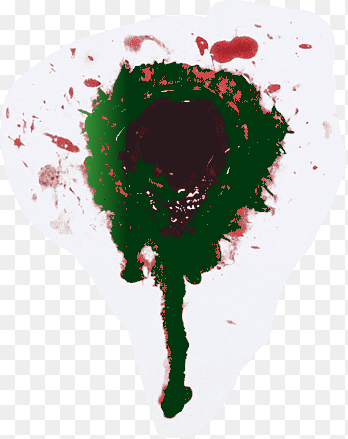
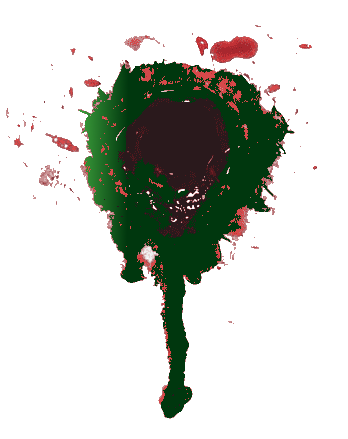
Add health to enemies and gun fire rate/ damage and fixed image transparency

diff --git a/MyGame/MyGame.cpp b/MyGame/MyGame.cpp
@@ -14,11 +14,11 @@ class MyGameApplication : public Quad::QuadApplication
 						   { MyKeysHandler(event); });
 		currentLevel = std::make_unique<GoblinLevel>();
 
-		// Initialize guns
-		guns.push_back(std::make_unique<Gun>("Assets/gun1hold.png", "Assets/gun1fire.png"));
-		guns.push_back(std::make_unique<Gun>("Assets/gun2hold.png", "Assets/gun2fire.png"));
-		guns.push_back(std::make_unique<Gun>("Assets/gun3hold.png", "Assets/gun3fire.png"));
-		guns.push_back(std::make_unique<Gun>("Assets/gun4hold.png", "Assets/gun4fire.png"));
+		// Initialize guns with different fire rates and damage
+		guns.push_back(std::make_unique<Gun>("Assets/gun1hold.png", "Assets/gun1fire.png", 0.6f, 1)); // Slow, 1 damage PISTOL
+		guns.push_back(std::make_unique<Gun>("Assets/gun2hold.png", "Assets/gun2fire.png", 0.2f, 1)); // Fast, 1 damage
+		guns.push_back(std::make_unique<Gun>("Assets/gun3hold.png", "Assets/gun3fire.png", 0.6f, 3)); // Slow, 3 damage AWP
+		guns.push_back(std::make_unique<Gun>("Assets/gun4hold.png", "Assets/gun4fire.png", 0.1f, 1)); // Fast, 1 damage UZI
 		currentGunIndex = 0;
 	}
 
@@ -36,13 +36,14 @@ class MyGameApplication : public Quad::QuadApplication
 		{
 			currentLevel->Update();
 			currentLevel->Draw();
+			guns[currentGunIndex]->Update();
 			guns[currentGunIndex]->Draw();
 
 			if (cursor.IsClicking())
 			{
 				if (GoblinLevel *goblinLevel = dynamic_cast<GoblinLevel *>(currentLevel.get()))
 				{
-					goblinLevel->HandleClick(cursor);
+					goblinLevel->HandleClick(cursor, guns[currentGunIndex]->CanFire(), guns[currentGunIndex]->GetDamage());
 				}
 				guns[currentGunIndex]->TriggerFire();
 			}

diff --git a/MyGame/Gun.cpp b/MyGame/Gun.cpp
@@ -1,9 +1,34 @@
 #include "Gun.h"
 
-Gun::Gun(const std::string &holdImagePath, const std::string &fireImagePath)
+Gun::Gun(const std::string &holdImagePath, const std::string &fireImagePath, float fireRate, int damage)
     : holdSprite(holdImagePath, 400, 0),
-      fireSprite(fireImagePath, 400, 0)
+      fireSprite(fireImagePath, 400, 0),
+      fireRate(fireRate),
+      damage(damage)
 {
+}
+
+void Gun::Update()
+{
+    if (!canFire)
+    {
+        cooldownTimer += 1.0f / 60.0f;
+        if (cooldownTimer >= fireRate)
+        {
+            canFire = true;
+            cooldownTimer = 0.0f;
+        }
+    }
+
+    if (isFiring)
+    {
+        fireDisplayTimer += 1.0f / 60.0f;
+        if (fireDisplayTimer >= FIRE_DISPLAY_TIME)
+        {
+            isFiring = false;
+            fireDisplayTimer = 0.0f;
+        }
+    }
 }
 
 void Gun::Draw()
@@ -20,10 +45,16 @@ void Gun::Draw()
 
 void Gun::TriggerFire()
 {
-    isFiring = true;
+    if (canFire)
+    {
+        isFiring = true;
+        canFire = false;
+        cooldownTimer = 0.0f;
+        fireDisplayTimer = 0.0f;
+    }
 }
 
 void Gun::SetFiring(bool firing)
 {
-    isFiring = firing;
+    // Removed as we're controlling firing state with timers
 }

diff --git a/MyGame/Gun.h b/MyGame/Gun.h
@@ -4,13 +4,22 @@
 class Gun
 {
 public:
-    Gun(const std::string &holdImagePath, const std::string &fireImagePath);
+    Gun(const std::string &holdImagePath, const std::string &fireImagePath, float fireRate, int damage);
     void Draw();
     void TriggerFire();
     void SetFiring(bool firing);
+    void Update();
+    bool CanFire() const { return canFire; }
+    int GetDamage() const { return damage; }
 
 private:
     Quad::Unit holdSprite;
     Quad::Unit fireSprite;
     bool isFiring{false};
+    float cooldownTimer{0.0f};
+    float fireDisplayTimer{0.0f};
+    static constexpr float FIRE_DISPLAY_TIME{0.4f};
+    float fireRate;
+    int damage;
+    bool canFire{true};
 };

diff --git a/MyGame/GoblinLevel.h b/MyGame/GoblinLevel.h
@@ -11,7 +11,7 @@ public:
     GoblinLevel();
     virtual void Update() override;
     virtual void Draw() override;
-    void HandleClick(const Quad::Cursor &cursor);
+    void HandleClick(const Quad::Cursor &cursor, bool canFire, int damage);
 
 private:
     Quad::Unit gameOverScreen{"Assets/goblinlvlgameover.png", 0, 0};
@@ -19,7 +19,7 @@ private:
 
     std::vector<std::unique_ptr<Enemy>> enemies;
     float spawnTimer{0.0f};
-    static constexpr float SPAWN_INTERVAL{5.0f};
+    static constexpr float SPAWN_INTERVAL{1.0f};
     static constexpr int MAX_ENEMIES{10};
     static constexpr int ENEMY_DAMAGE{20};
     size_t spawnedEnemies{0};

diff --git a/MyGame/Enemy.cpp b/MyGame/Enemy.cpp
@@ -30,7 +30,7 @@ bool Enemy::ShouldDealDamage()
     if (!active || damageTimer < DAMAGE_INTERVAL)
         return false;
 
-    damageTimer = 0.0f; 
+    damageTimer = 0.0f;
     return true;
 }
 
@@ -45,4 +45,15 @@ void Enemy::Draw()
 bool Enemy::IsClicked(const Quad::Cursor &cursor) const
 {
     return active && cursor.IsClickingOn(sprite);
+}
+
+void Enemy::Hit(int damage)
+{
+    hits += damage;
+    QUAD_LOG("Enemy hit! Current hits: " << hits);
+    if (hits >= HITS_TO_DIE)
+    {
+        active = false;
+        QUAD_LOG("Enemy died!");
+    }
 }

diff --git a/MyGame/Enemy.h b/MyGame/Enemy.h
@@ -11,6 +11,7 @@ public:
     bool IsActive() const { return active; }
     void SetActive(bool isActive) { active = isActive; }
     bool ShouldDealDamage();
+    void Hit(int damage);
 
 private:
     Quad::Unit sprite;
@@ -20,4 +21,6 @@ private:
     static constexpr float ANIMATION_INTERVAL{0.5f};
     static constexpr float DAMAGE_INTERVAL{2.5f};
     bool isFirstFrame{true};
+    int hits{0};
+    static constexpr int HITS_TO_DIE{2};
 };

diff --git a/MyGame/GoblinLevel.cpp b/MyGame/GoblinLevel.cpp
@@ -31,13 +31,16 @@ void GoblinLevel::Update()
     }
 }
 
-void GoblinLevel::HandleClick(const Quad::Cursor &cursor)
+void GoblinLevel::HandleClick(const Quad::Cursor &cursor, bool canFire, int damage)
 {
+    if (!canFire)
+        return;
+
     for (auto &enemy : enemies)
     {
         if (enemy->IsClicked(cursor))
         {
-            enemy->SetActive(false);
+            enemy->Hit(damage);
         }
     }
 }
